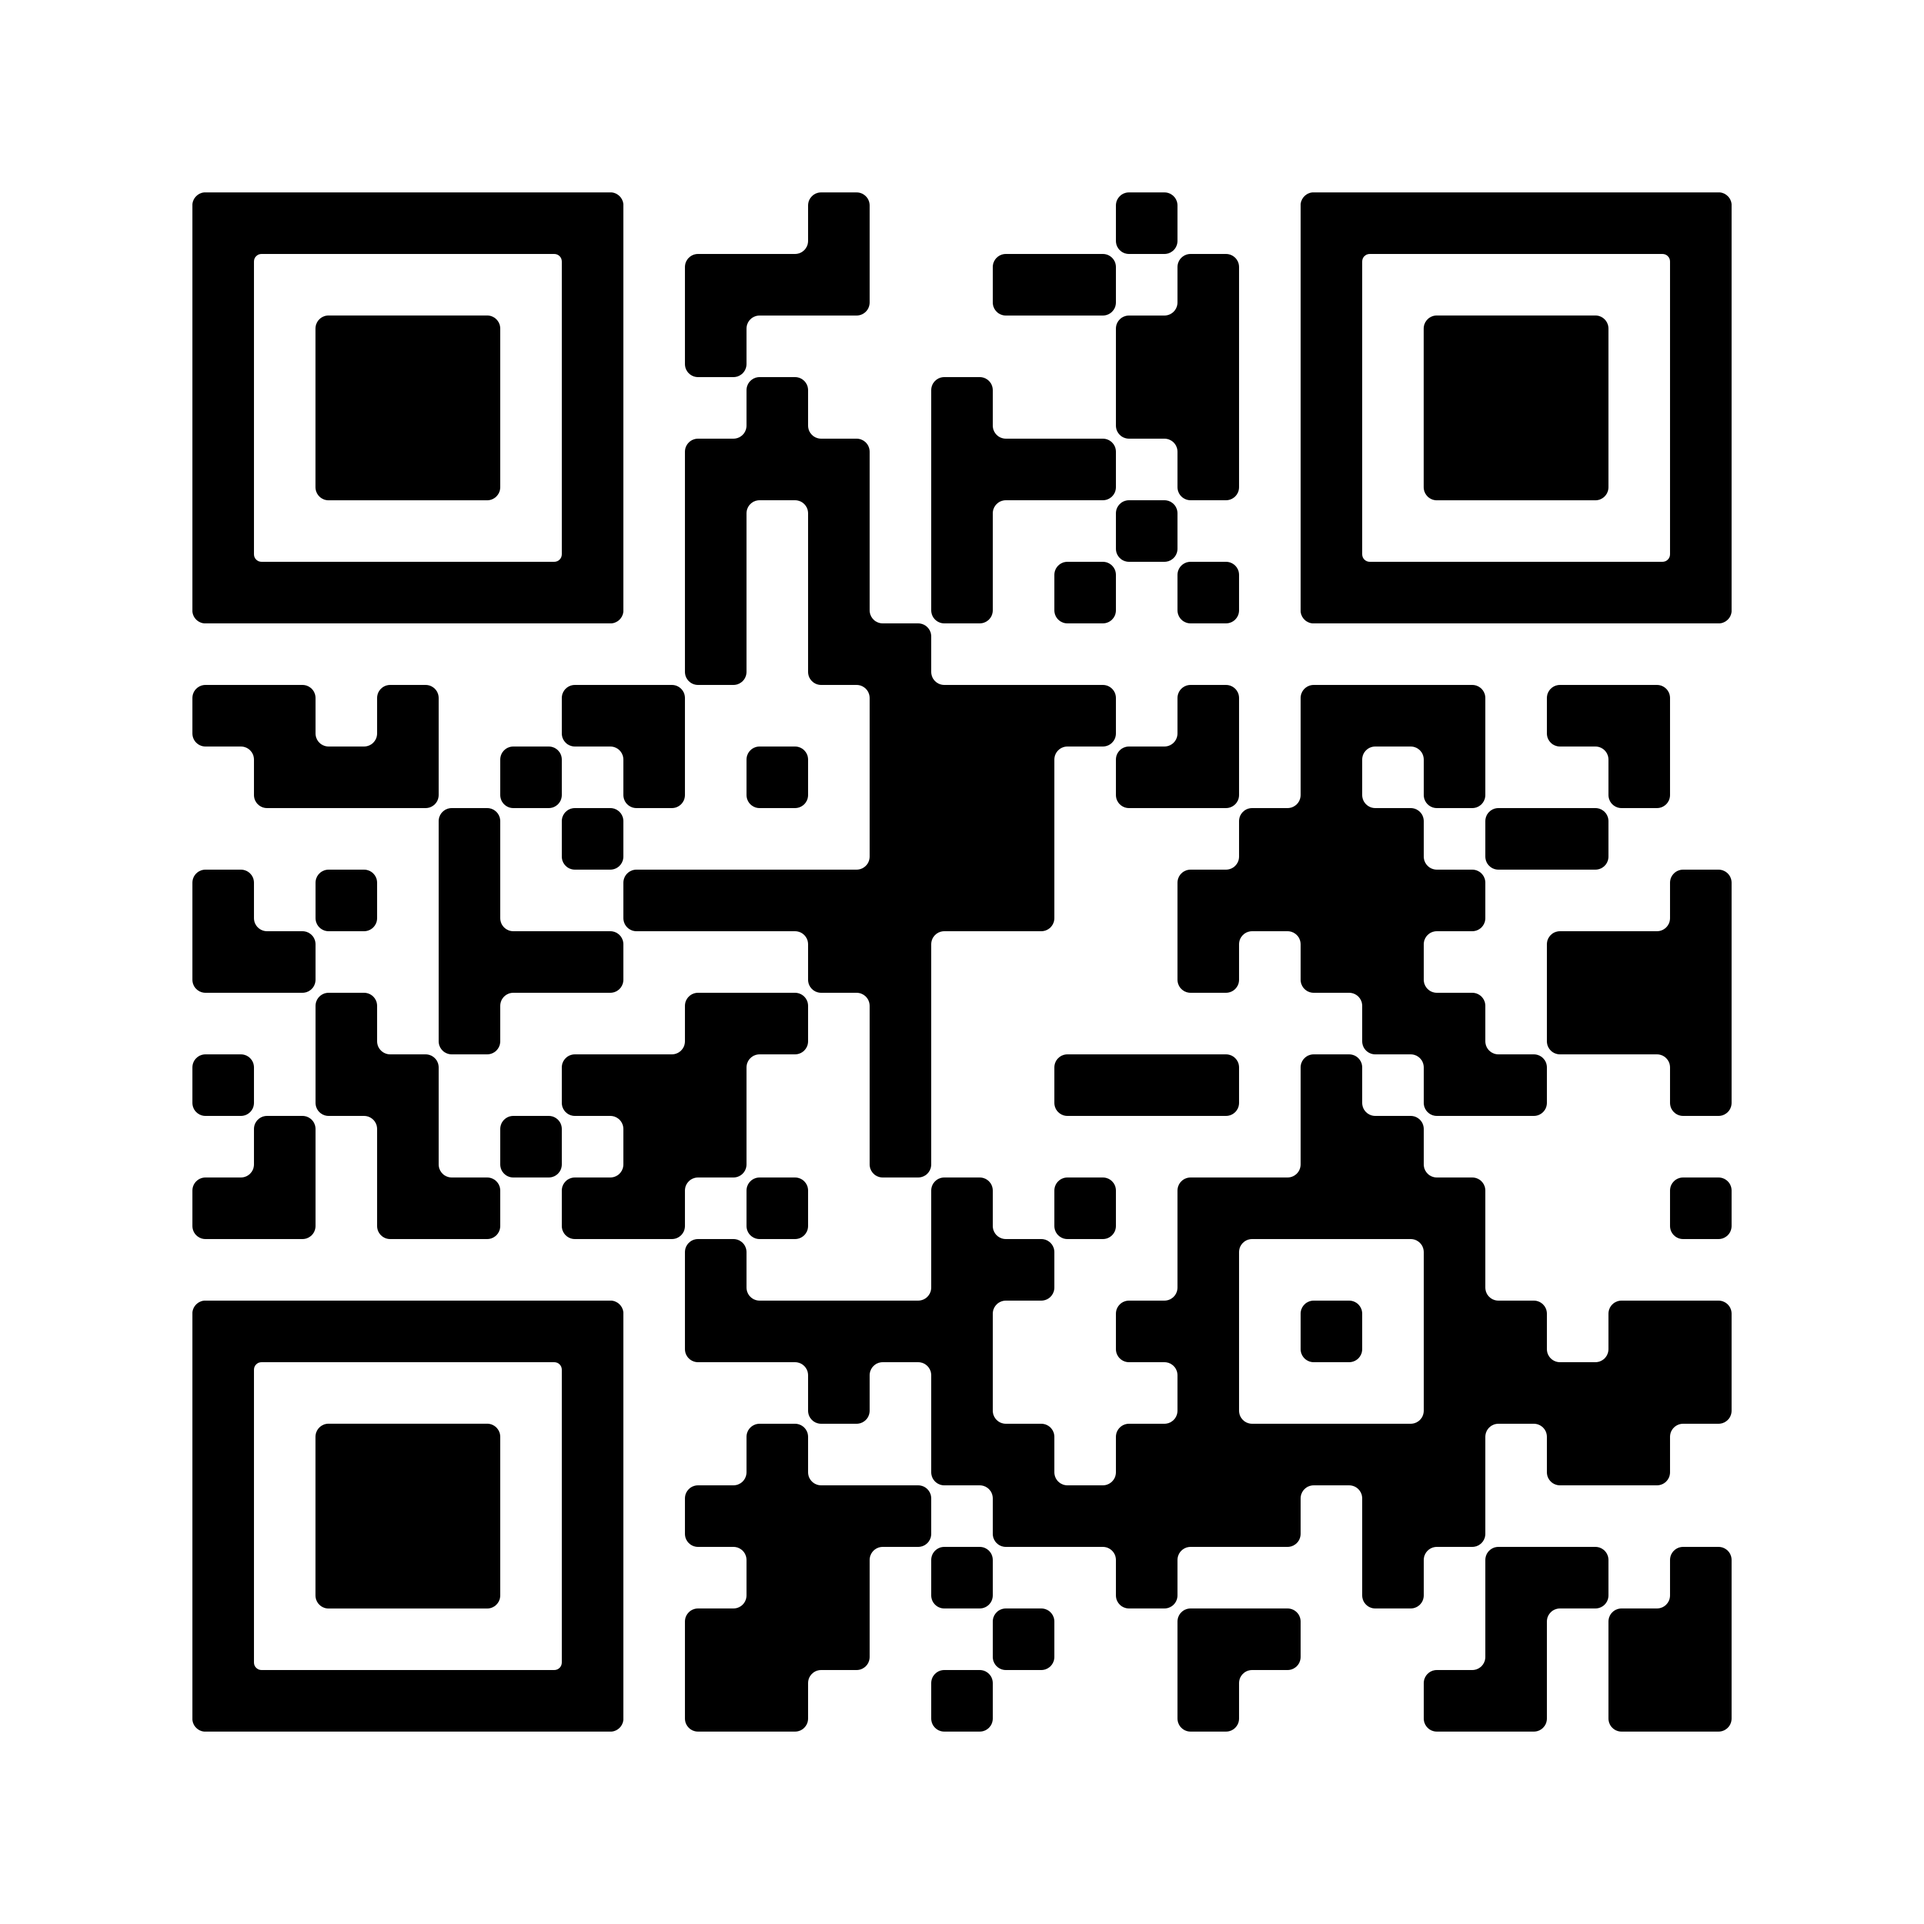
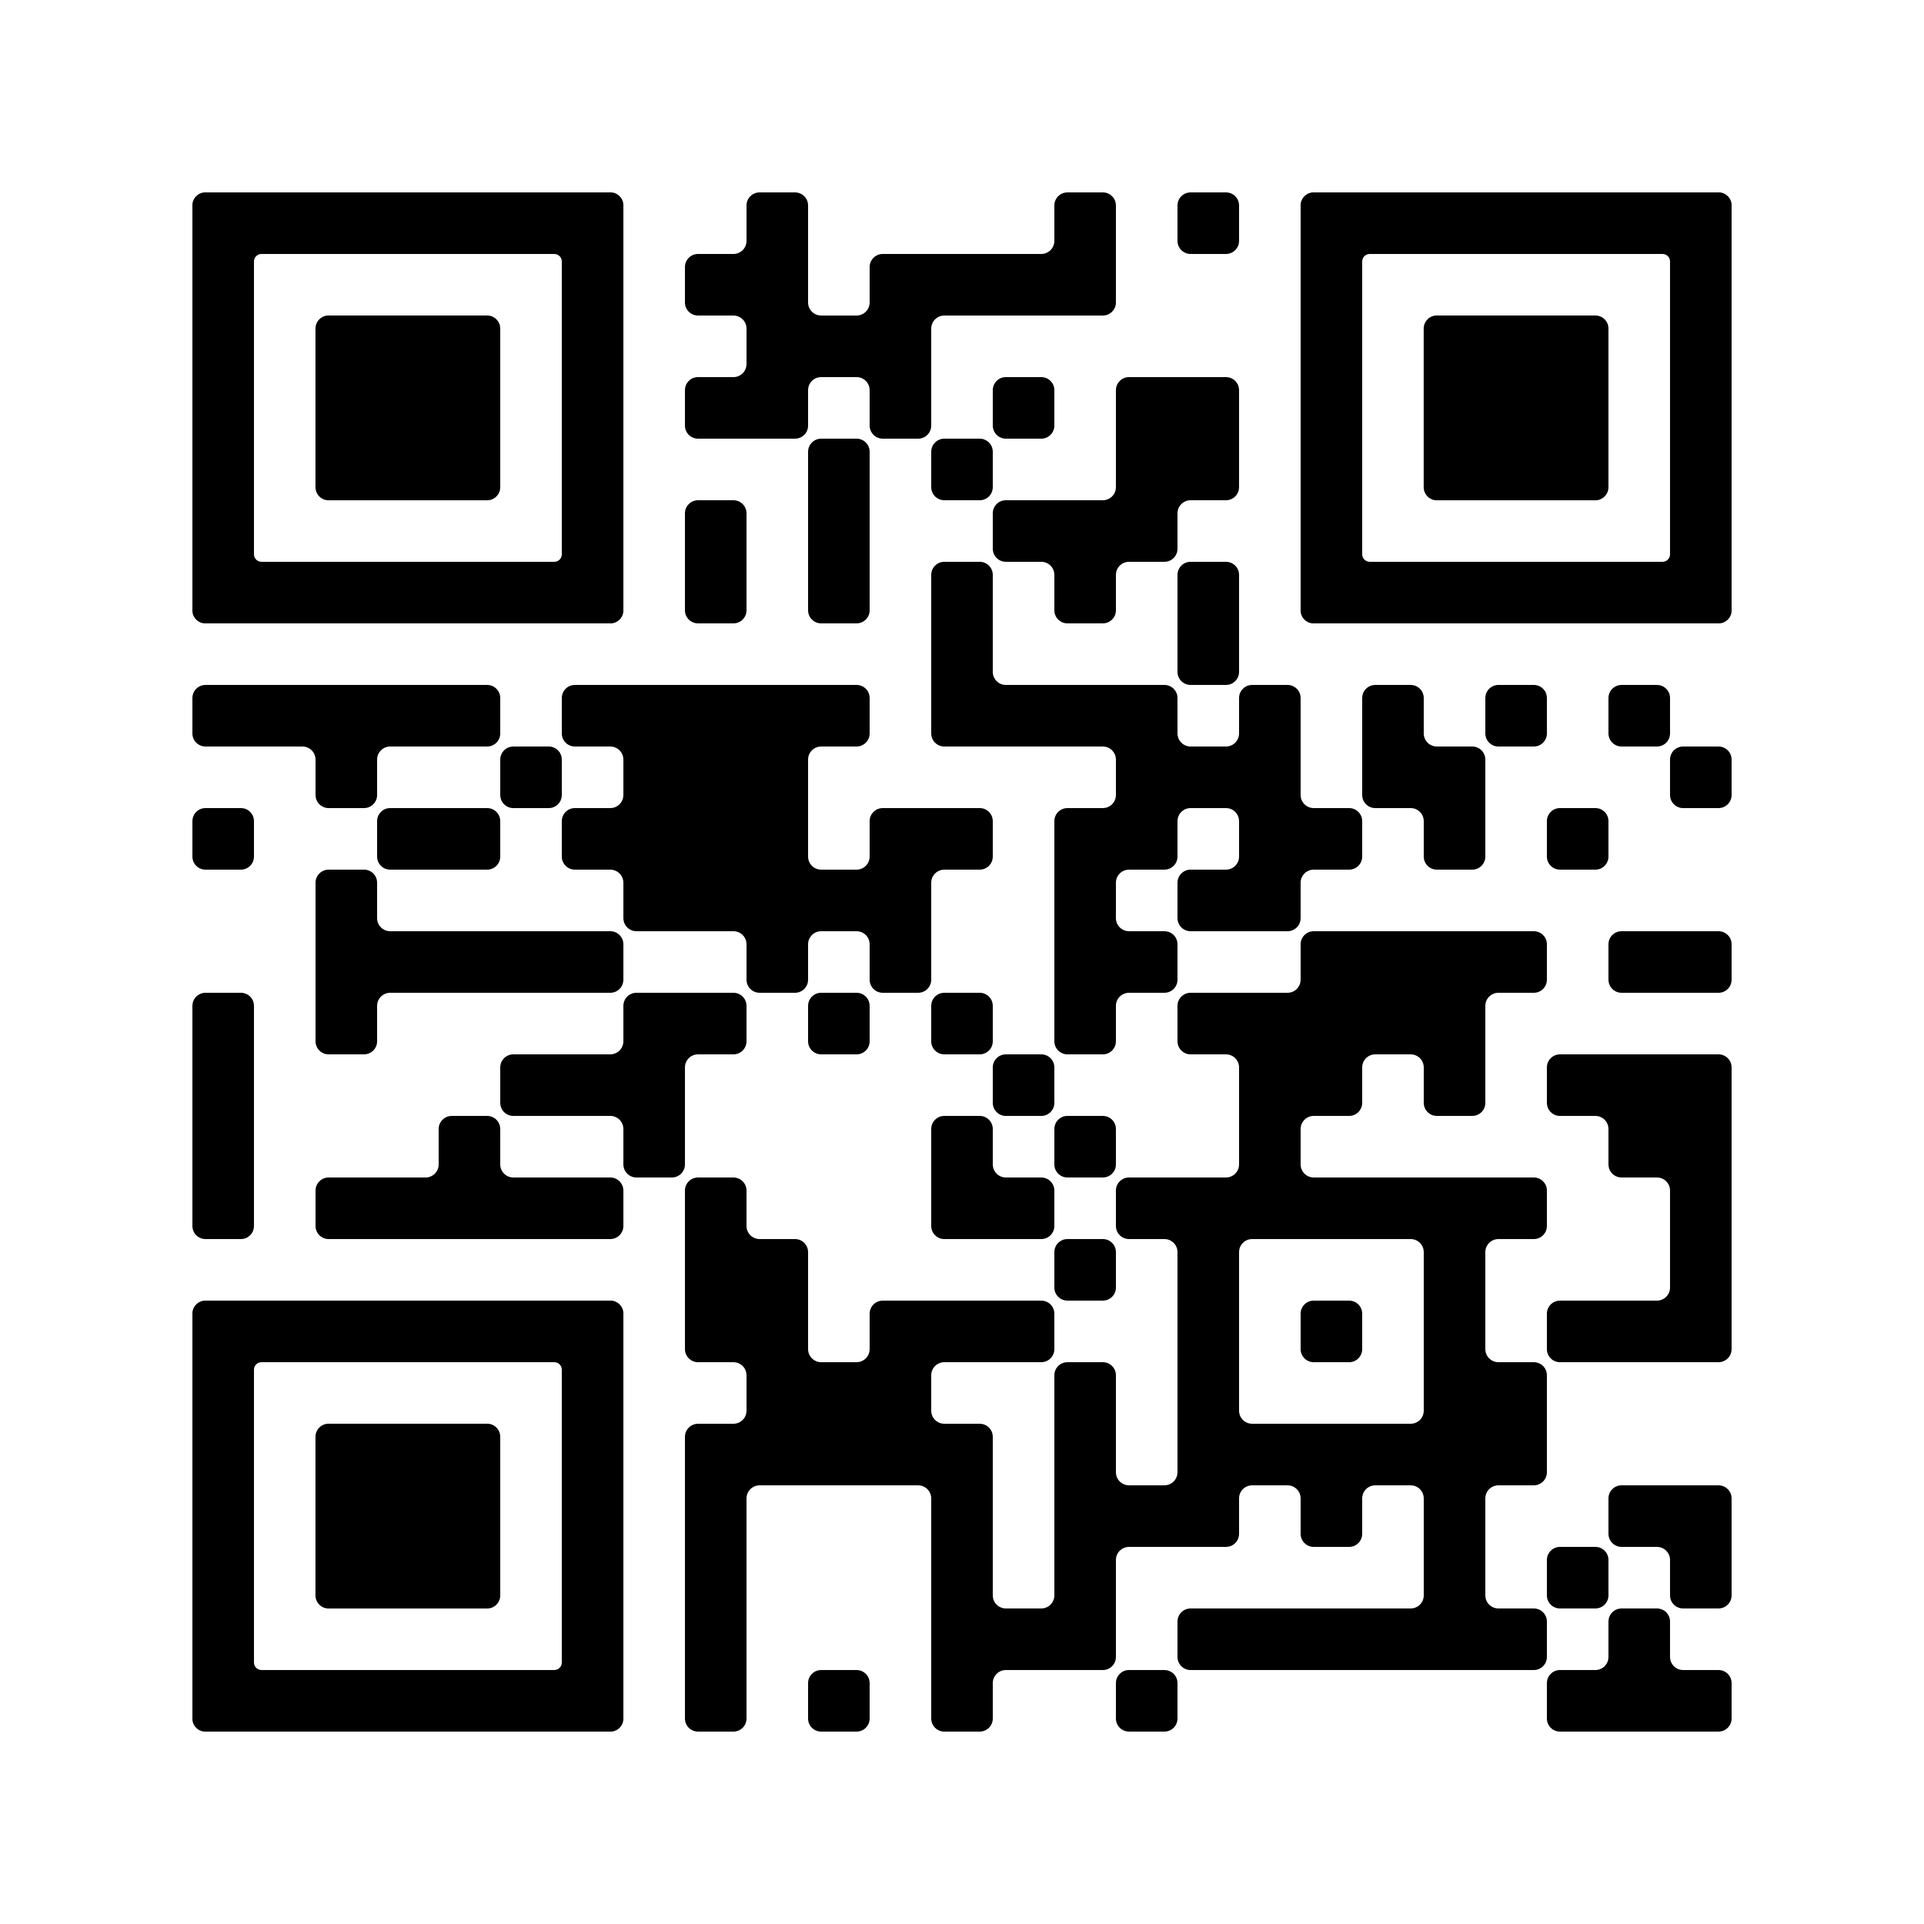
link change

Changed region(s): [[0.093, 0.093, 0.899, 0.899], [0.62, 0.775, 0.837, 0.899], [0.868, 0.837, 0.899, 0.868]]

diff --git a/en/index.html b/en/index.html
@@ -96,7 +96,7 @@
                 />
                 <a
                   id="andriodAppBtn"
-                  href="https://coupons.joker.co.rs/~android/magicbet/app-magicbet777-release.apk"
+                  href="https://coupons.joker.co.rs/~android/br/app-br-release.apk"
                   >Download</a
                 >
               </div>

diff --git a/index.html b/index.html
@@ -100,7 +100,7 @@
                 />
                 <a
                   id="andriodAppBtn"
-                  href="https://coupons.joker.co.rs/~android/magicbet/app-magicbet777-release.apk"
+                  href="https://coupons.joker.co.rs/~android/br/app-br-release.apk"
                   >Baixar</a
                 >
               </div>

diff --git a/js.js b/js.js
@@ -141,7 +141,7 @@ function redirectToApp() {
   var currentUrl = window.location.href; 
  if (md.is("AndroidOS")) {
     window.location.href =
-      "https://coupons.joker.co.rs/~android/pe/app-pe-release.apk";
+      "https://coupons.joker.co.rs/~android/br/app-br-release.apk";
   } else {
   
     currentUrl;
